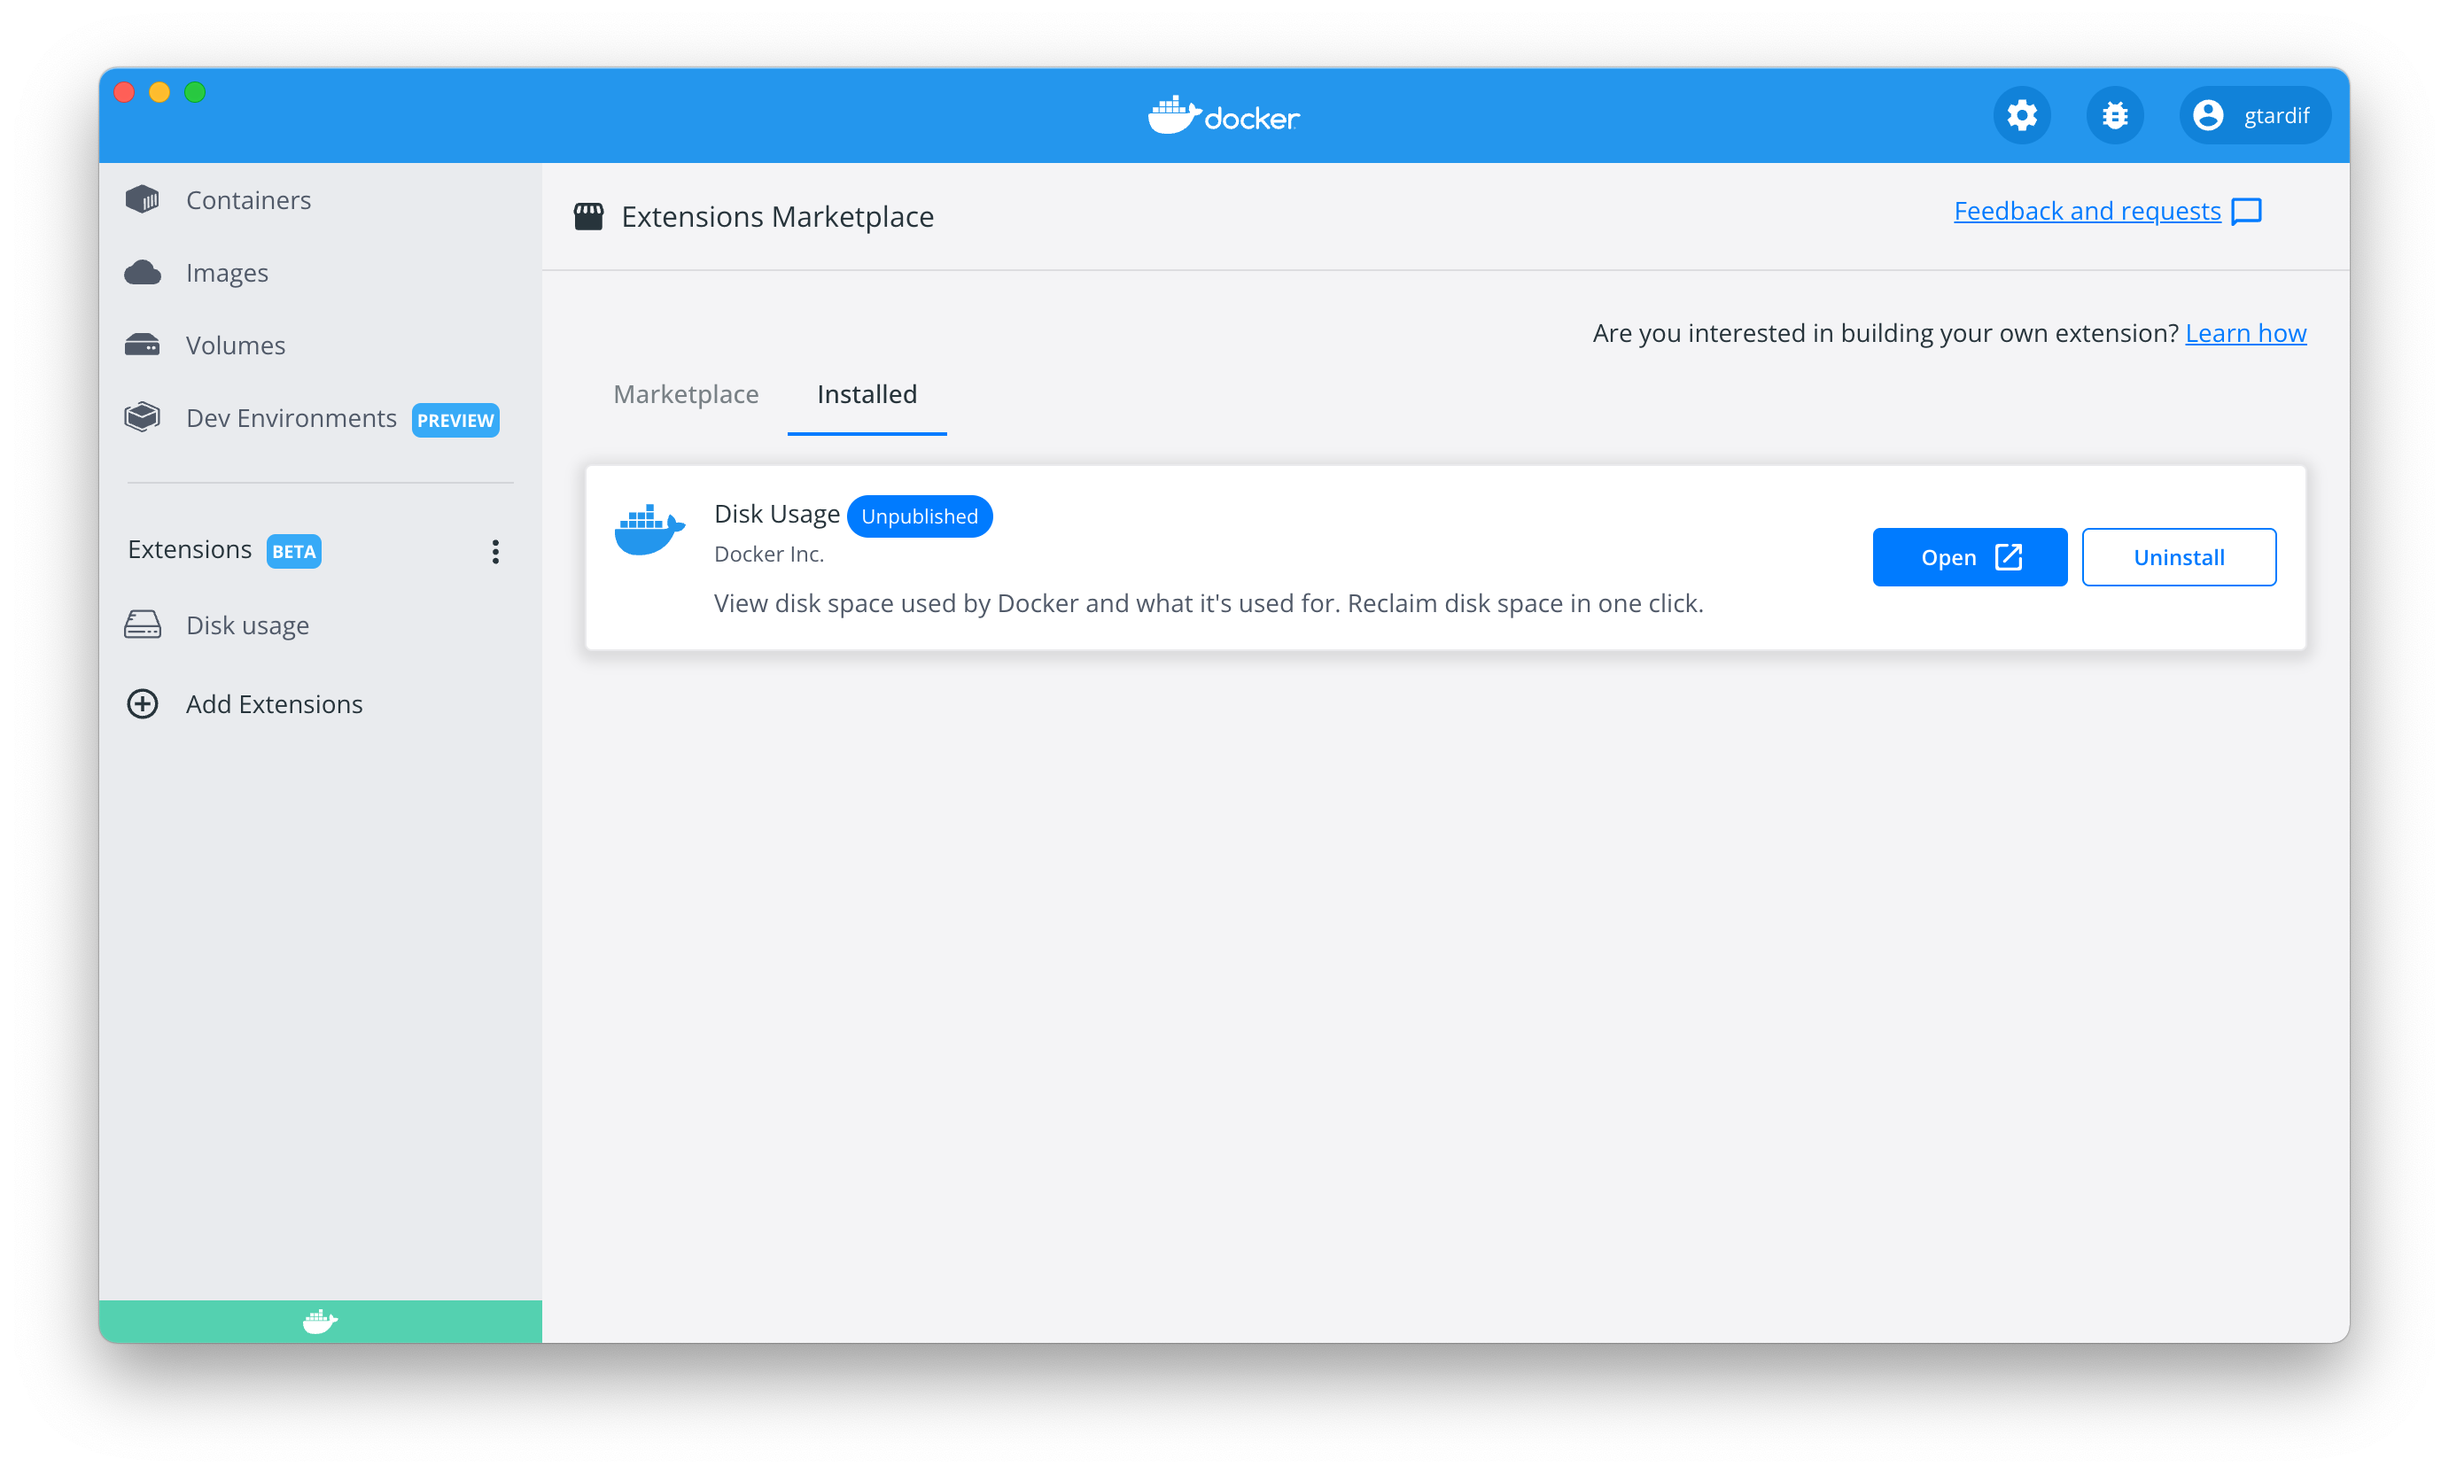
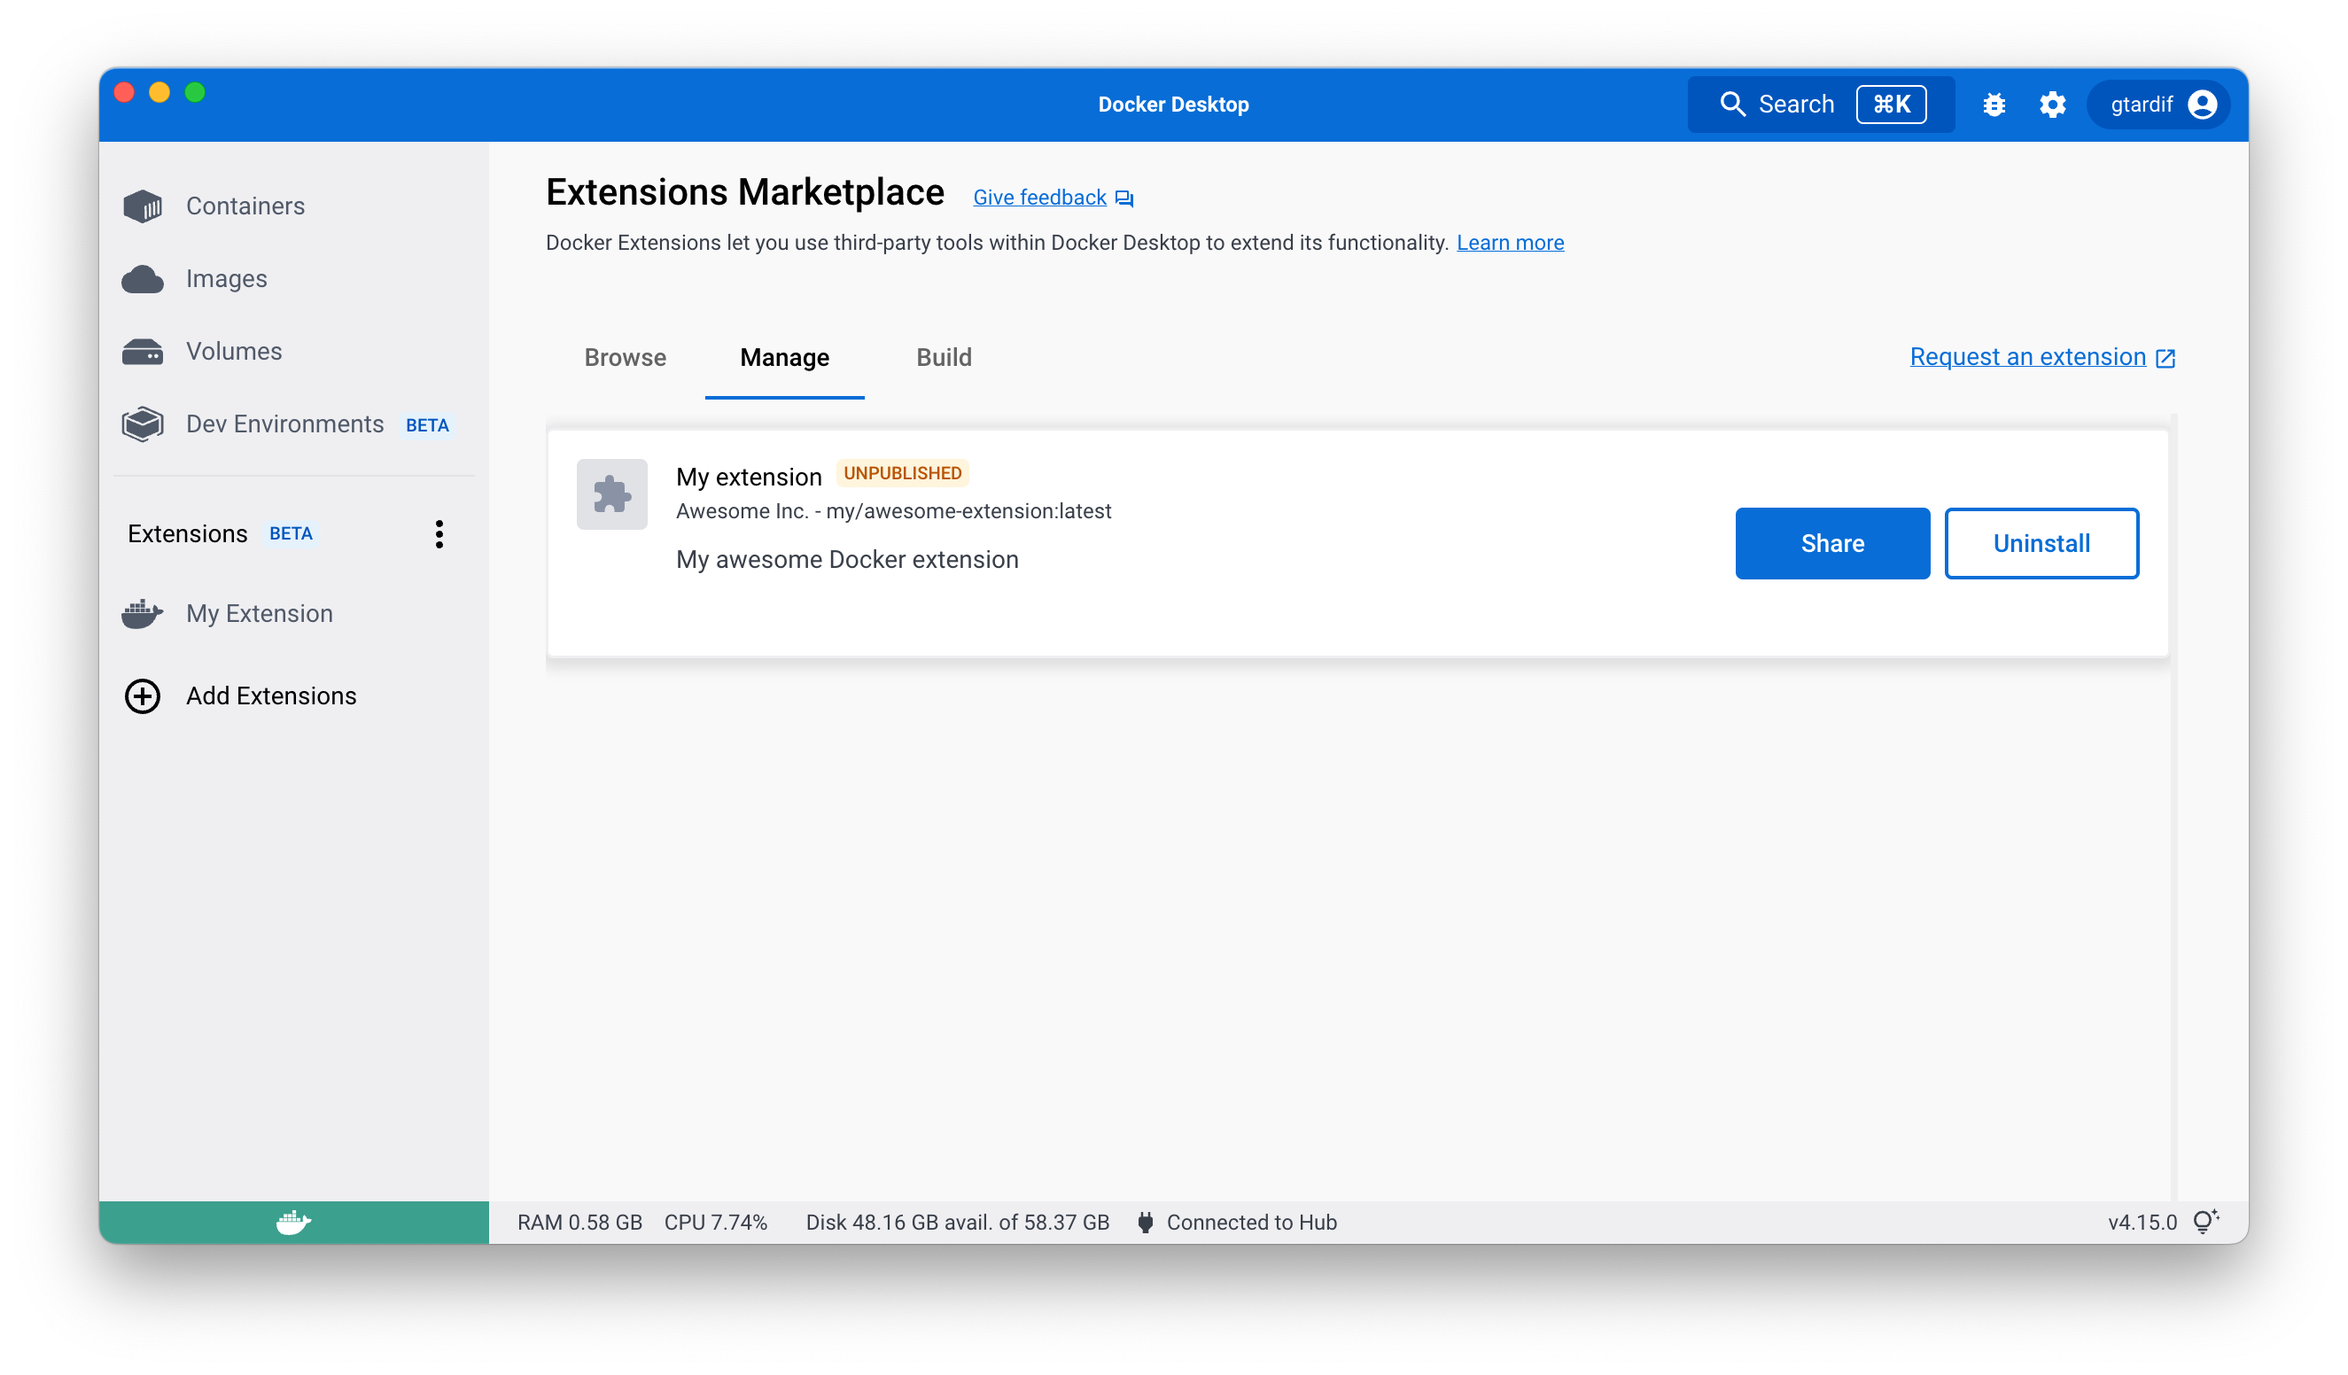
Add doc about sharing extensions

diff --git a/desktop/extensions-sdk/extensions/share.md b/desktop/extensions-sdk/extensions/share.md
@@ -1,0 +1,30 @@
+---
+title: Share your extensions
+description: Docker extension distribution
+keywords: Docker, extensions, share
+---
+
+## Share your extension with others
+
+Once your extension image is accessible on Docker Hub, anyone with access to the image can install the extension.
+
+People can install you extension by typing `docker extension install my/awesome-extension:latest`.
+But this doesn't provide a lot of information; people might want to know more about your extension before they install it and start using it.
+
+Docker provides a way for you to share a URL pointing to your extension. When people navigate to this URL, it will open Docker Desktop and display your extension description card, similarly to extensions in the marketplace. Especially, it displays the extension description, screenshots, etc. that you provide as [extension labels](labels.md).
+
+![Navigate to extension link](images/open-share.png)
+
+Users can then simply select "Install" without copy-pasting command line in a terminal.
+
+You can generate this link with the extension command line :
+
+```
+docker extension share my/awesome-extension:0.0.1
+```
+
+and this will give you the URL to share your extension
+
+or, once you have installed your extension locally, you can to the "Manage" tab of extensions, and select "Share":
+
+![Share button](images/list-preview.png)
